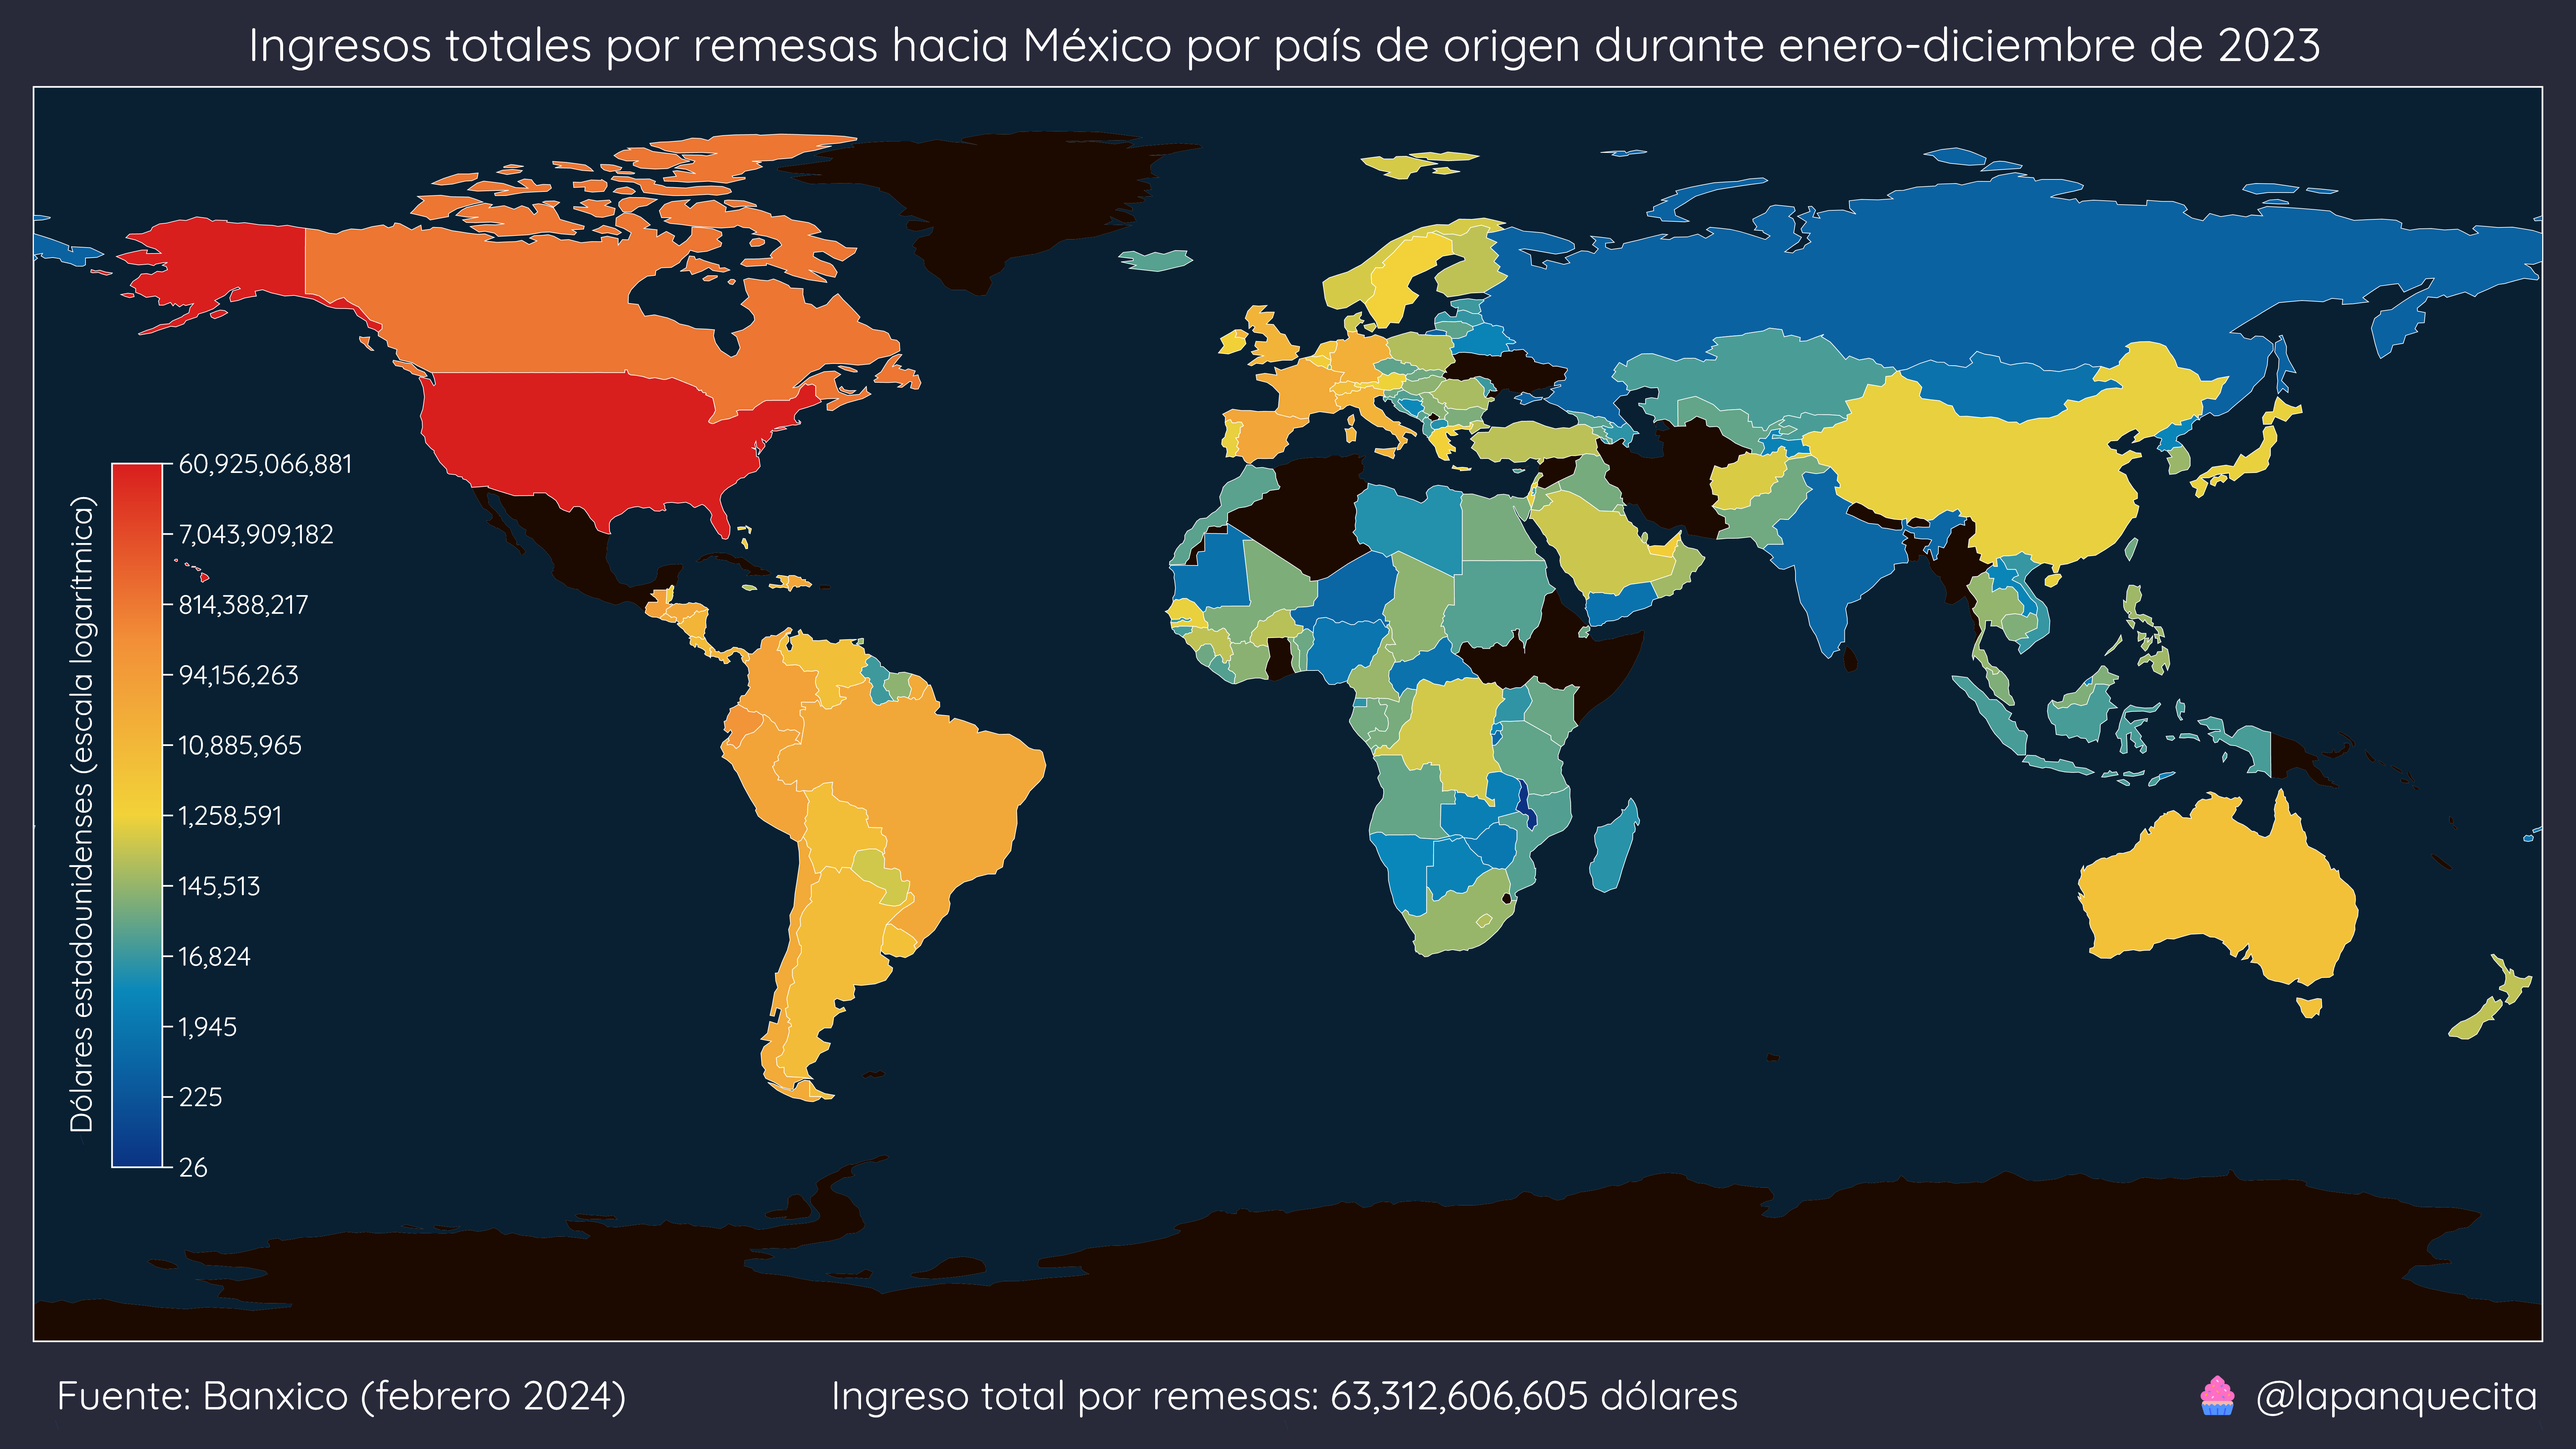
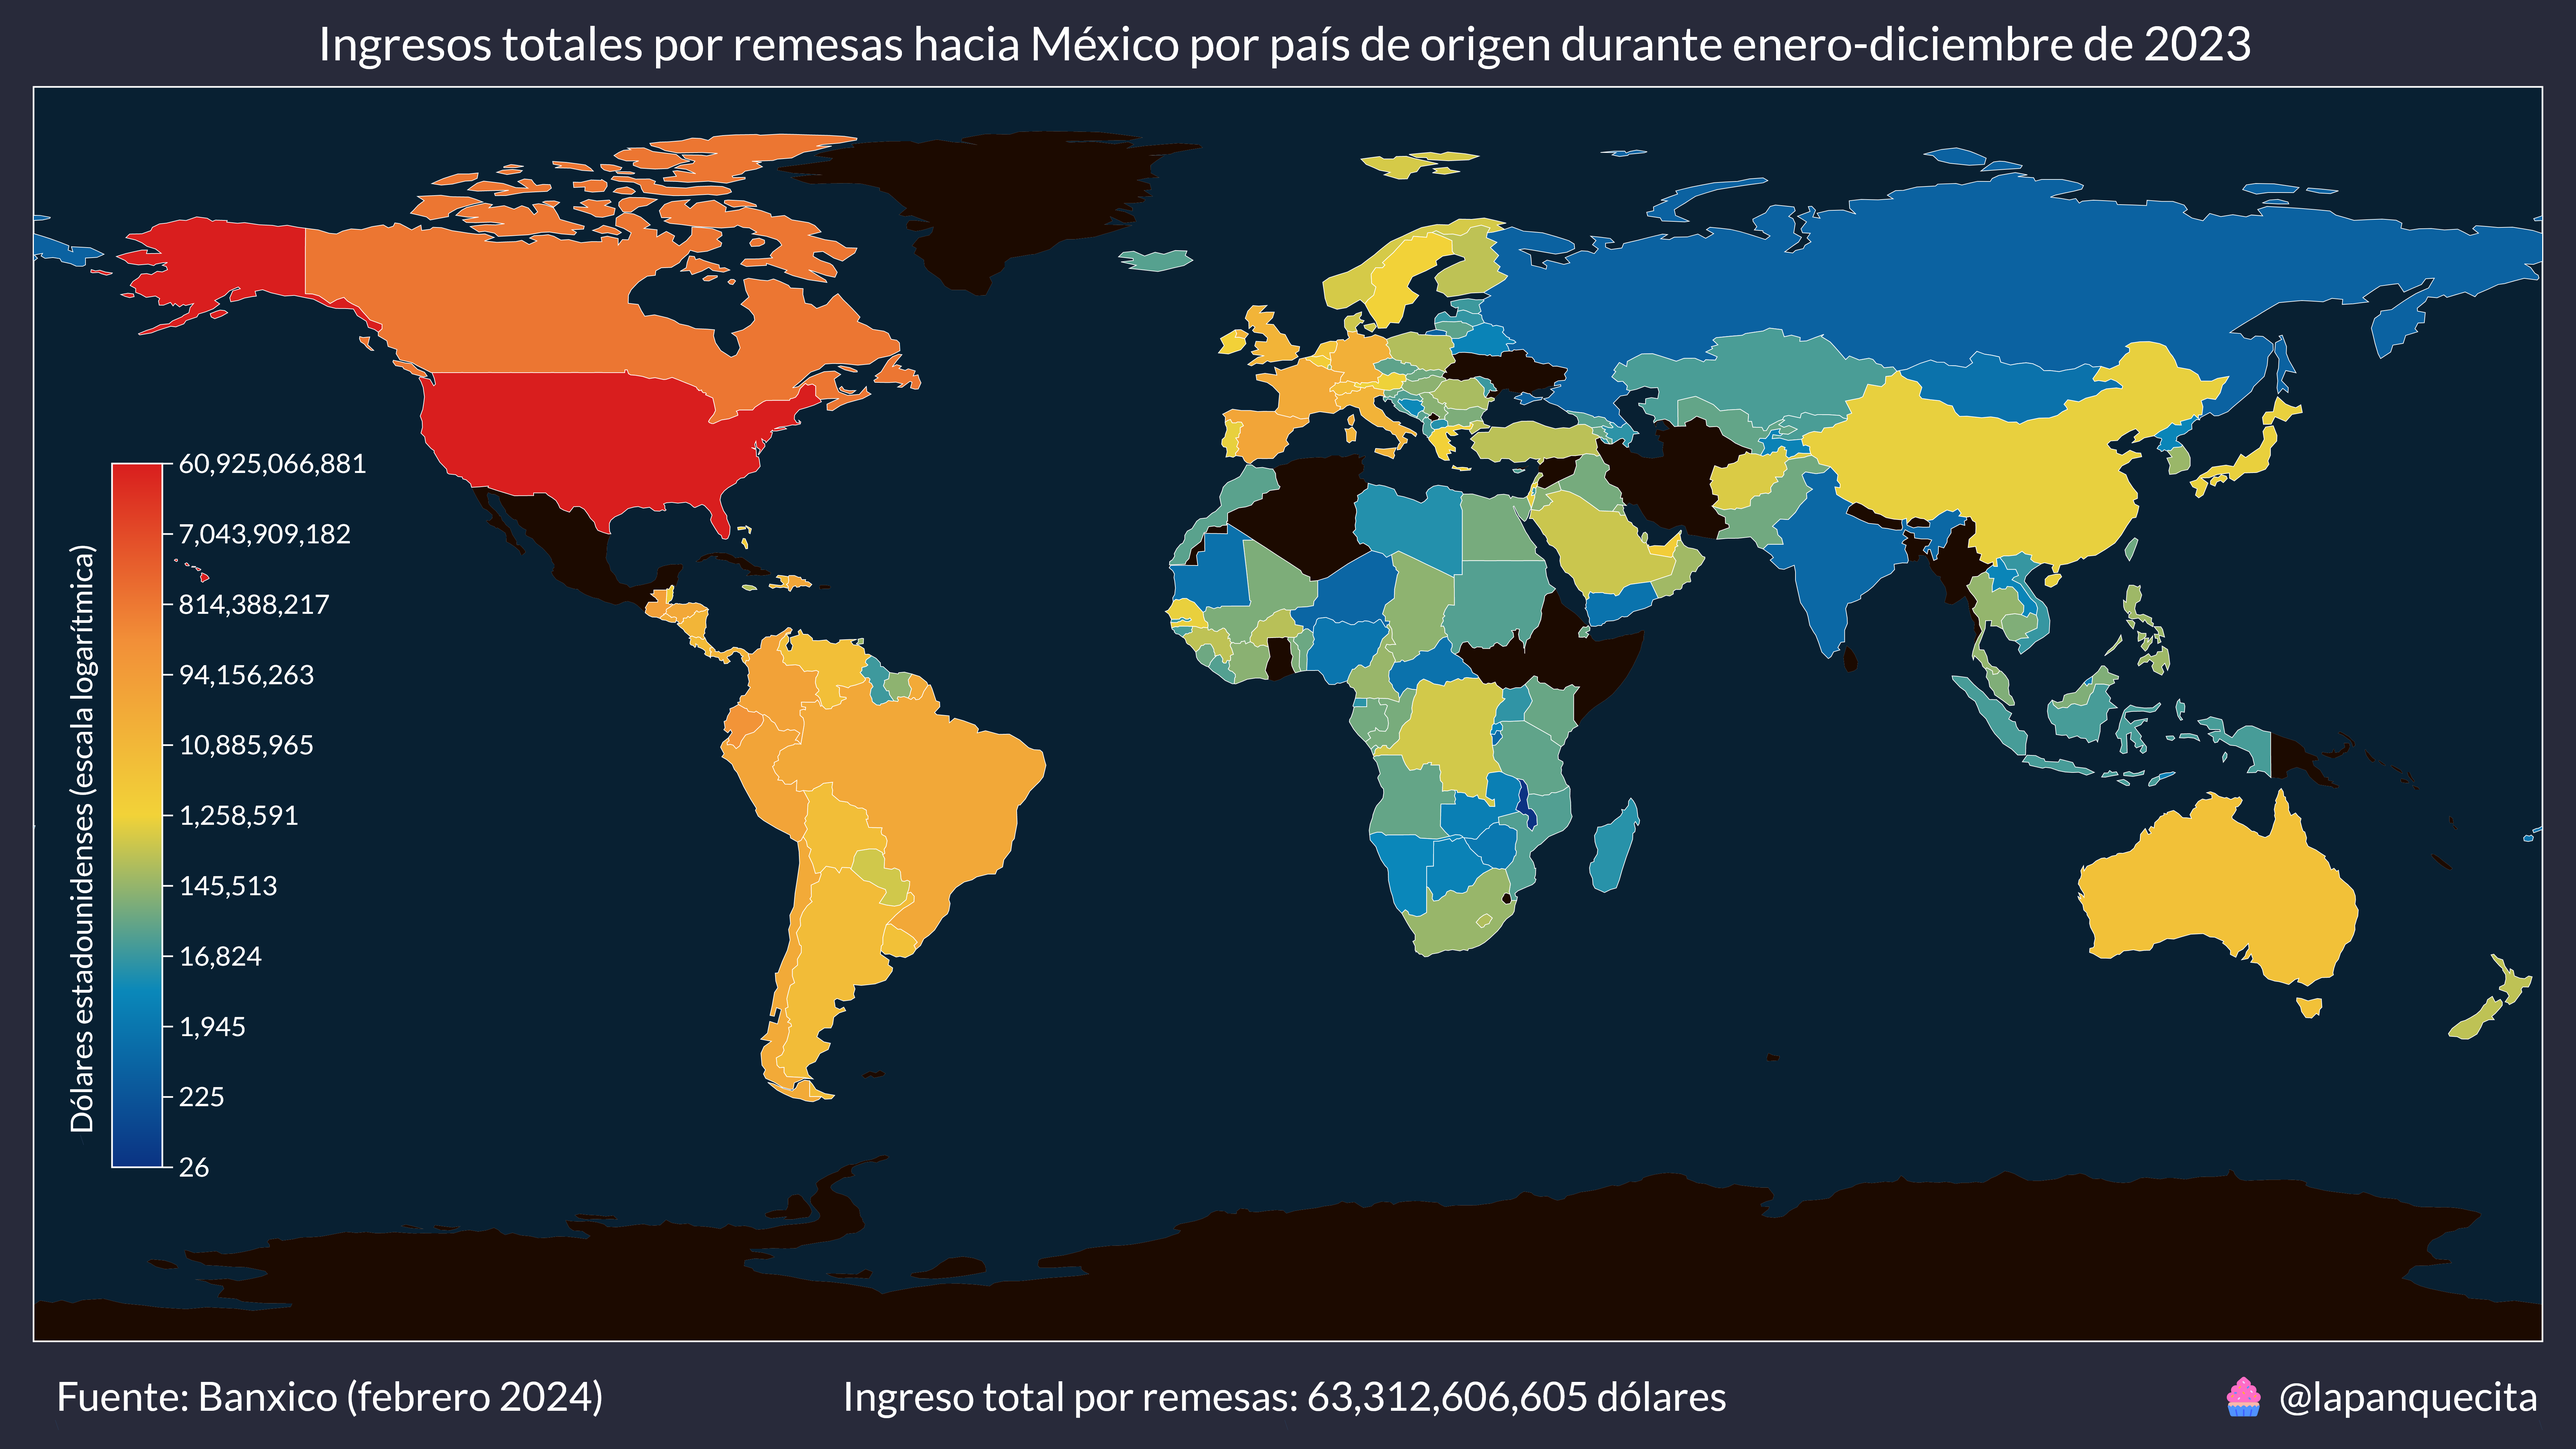
Add files via upload

diff --git a/remesas_usa.py b/remesas_usa.py
@@ -68,7 +68,7 @@ ABREVIACIONES = {
     "Washington, D.C.": "DC",
     "West Virginia": "WV",
     "Wisconsin": "WI",
-    "Wyoming": "WY"
+    "Wyoming": "WY",
 }
 
 # Población estimada de mexicanos viviendo en cada estado de EE. UU.
@@ -129,18 +129,30 @@ POBLACION = {
     "Puerto Rico": 6062,
 }
 
+# Mes y año en que se recopilaron los datos.
+FECHA_FUENTE = "febrero 2024"
 
-def plot_usa():
+# Periodo de tiempo del análisis.
+PERIODO_TIEMPO = "enero-diciembre de 2023"
+
+
+def plot_usa(año):
     """
     Crea un mapa Choropleth de EE. UU. con los egresos por remesas per cápita
     de población mexicana.
+
+    Parameters
+    ----------
+    año : int
+        El año que nos interesa analizar.
+
     """
 
     # Cargamos el archivo CSV con las remesas provenientes de EE. UU.
-    df = pd.read_csv("./data/remesas_usa.csv", index_col="Estado")
+    df = pd.read_csv("./data/remesas_usa.csv", index_col=0)
 
     # Seleccionamos las columnas del año que nos interesa.
-    columnas = [col for col in df.columns if "2023" in col]
+    columnas = [col for col in df.columns if str(año) in col]
 
     # Filtramos el DataFrama con las columnas que nos interesan.
     df = df[columnas]
@@ -194,21 +206,21 @@ def plot_usa():
             marker_line_width=2,
             zmax=max_value,
             zmin=min_value,
-            colorbar={
-                "x": 0.03,
-                "y": 0.5,
-                "thickness": 150,
-                "ypad": 400,
-                "ticks": "outside",
-                "outlinewidth": 5,
-                "outlinecolor": "#FFFFFF",
-                "tickwidth": 5,
-                "tickcolor": "#FFFFFF",
-                "ticklen": 30,
-                "tickfont_size": 80,
-                "tickvals": marcas,
-                "ticktext": textos,
-            },
+            colorbar=dict(
+                x=0.03,
+                y=0.5,
+                thickness=150,
+                ypad=400,
+                ticks="outside",
+                outlinewidth=5,
+                outlinecolor="#FFFFFF",
+                tickwidth=5,
+                tickcolor="#FFFFFF",
+                ticklen=30,
+                tickfont_size=80,
+                tickvals=marcas,
+                ticktext=textos,
+            ),
         )
     )
 
@@ -230,7 +242,7 @@ def plot_usa():
         legend_font_size=100,
         legend_bordercolor="#FFFFFF",
         legend_borderwidth=2,
-        font_family="Quicksand",
+        font_family="Lato",
         font_color="#FFFFFF",
         margin_t=400,
         margin_r=300,
@@ -245,8 +257,8 @@ def plot_usa():
                 y=1.08,
                 xanchor="center",
                 yanchor="top",
-                text="Estado de origen de los ingresos por remesas provenientes de EE. UU. hacia México durante enero-septiembre de 2023<br>(ajustado con la población estimada de mexicanos en EE. UU. durante el 2021)",
-                font_size=120
+                text=f"Estado de origen de los ingresos por remesas provenientes de EE. UU. hacia México durante {PERIODO_TIEMPO}<br>(ajustado con la población estimada de mexicanos en EE. UU. durante el 2021)",
+                font_size=110,
             ),
             dict(
                 x=0.02,
@@ -255,23 +267,23 @@ def plot_usa():
                 xanchor="left",
                 yanchor="middle",
                 text="Dólares estadounidenses`por cada mexicano (escala logarítmica)",
-                font_size=90
+                font_size=90,
             ),
             dict(
                 x=0.01,
                 y=-0.08,
                 xanchor="left",
                 yanchor="bottom",
-                text="Fuente: Banxico (noviembre 2023)",
-                font_size=100
+                text=f"Fuente: Banxico ({FECHA_FUENTE})",
+                font_size=100,
             ),
             dict(
                 x=0.5,
                 y=-0.08,
                 xanchor="center",
                 yanchor="bottom",
-                text=f"Nacional: ${total_capita:,.0f} dólares por cada mexicano en EE. UU.",
-                font_size=100
+                text=f"Nacional: {total_capita:,.0f} dólares por cada mexicano en EE. UU.",
+                font_size=100,
             ),
             dict(
                 x=1.0,
@@ -279,21 +291,21 @@ def plot_usa():
                 xanchor="right",
                 yanchor="bottom",
                 text="🧁 @lapanquecita",
-                font_size=100
+                font_size=100,
             ),
             dict(
                 x=1.0,
                 y=0.3,
                 xanchor="right",
                 yanchor="top",
-                text=f"Remesas totales durante la primera<br>mitad del 2023: <b>${total_remesas:,.0f}</b> dólares<br>Población estimada de mexicanos<br>en EE. UU. (2021): <b>{total_poblacion:,.0f}</b>",
+                text=f"Remesas totales: <b>{total_remesas:,.0f}</b> dólares<br>Población estimada de mexicanos<br>en EE. UU. (2021): <b>{total_poblacion:,.0f}</b>",
                 font_size=70,
                 align="left",
                 bordercolor="#FFFFFF",
                 borderwidth=5,
                 borderpad=30,
-            )
-        ]
+            ),
+        ],
     )
 
     fig.write_image("./mapa_usa.png")
@@ -345,6 +357,5 @@ def stats_usa():
 
 
 if __name__ == "__main__":
-
-    plot_usa()
+    plot_usa(2023)
     stats_usa()

diff --git a/remesas_pais.py b/remesas_pais.py
@@ -249,7 +249,7 @@ def plot_top(año):
     """
 
     # Cargamos el archivo CSV de remesas por país.
-    df = pd.read_csv("./data/remesas_pais.csv", index_col="País")
+    df = pd.read_csv("./data/remesas_pais.csv", index_col=0)
 
     # Seleccionamos las columnas del año que nos interesa.
     columnas = [col for col in df.columns if str(año) in col]
@@ -406,7 +406,7 @@ def plot_bottom(año):
 
     """
     # Cargamos el archivo CSV de remesas por país.
-    df = pd.read_csv("./data/remesas_pais.csv", index_col="País")
+    df = pd.read_csv("./data/remesas_pais.csv", index_col=0)
 
     # Seleccionamos las columnas del año que nos interesa.
     columnas = [col for col in df.columns if str(año) in col]
@@ -559,7 +559,7 @@ def plot_map(año):
     """
 
     # Cargamos el archivo CSV de remesas por país.
-    df = pd.read_csv("./data/remesas_pais.csv", index_col="País")
+    df = pd.read_csv("./data/remesas_pais.csv", index_col=0)
 
     # Seleccionamos las columnas del año que nos interesa.
     columnas = [col for col in df.columns if str(año) in col]
@@ -640,7 +640,7 @@ def plot_map(año):
         legend_font_size=100,
         legend_bordercolor="#FFFFFF",
         legend_borderwidth=2,
-        font_family="Quicksand",
+        font_family="Lato",
         font_color="#FFFFFF",
         margin_t=240,
         margin_r=100,

diff --git a/remesas_entidad.py b/remesas_entidad.py
@@ -55,7 +55,7 @@ def plot_mapa(año):
     )
 
     # Cargamos el dataset de remesas por entidad.
-    df = pd.read_csv("./data/remesas_entidad.csv", index_col="Entidad")
+    df = pd.read_csv("./data/remesas_entidad.csv", index_col=0)
 
     # Seleccionamos las columnas del año que nos interesa.
     cols = [col for col in df.columns if str(año) in col]

diff --git a/remesas_municipio.py b/remesas_municipio.py
@@ -608,6 +608,6 @@ def plot_tendencias():
 
 
 if __name__ == "__main__":
-    # plot_capita(2023)
-    # plot_absolutos(2023)
+    plot_capita(2023)
+    plot_absolutos(2023)
     plot_tendencias()
